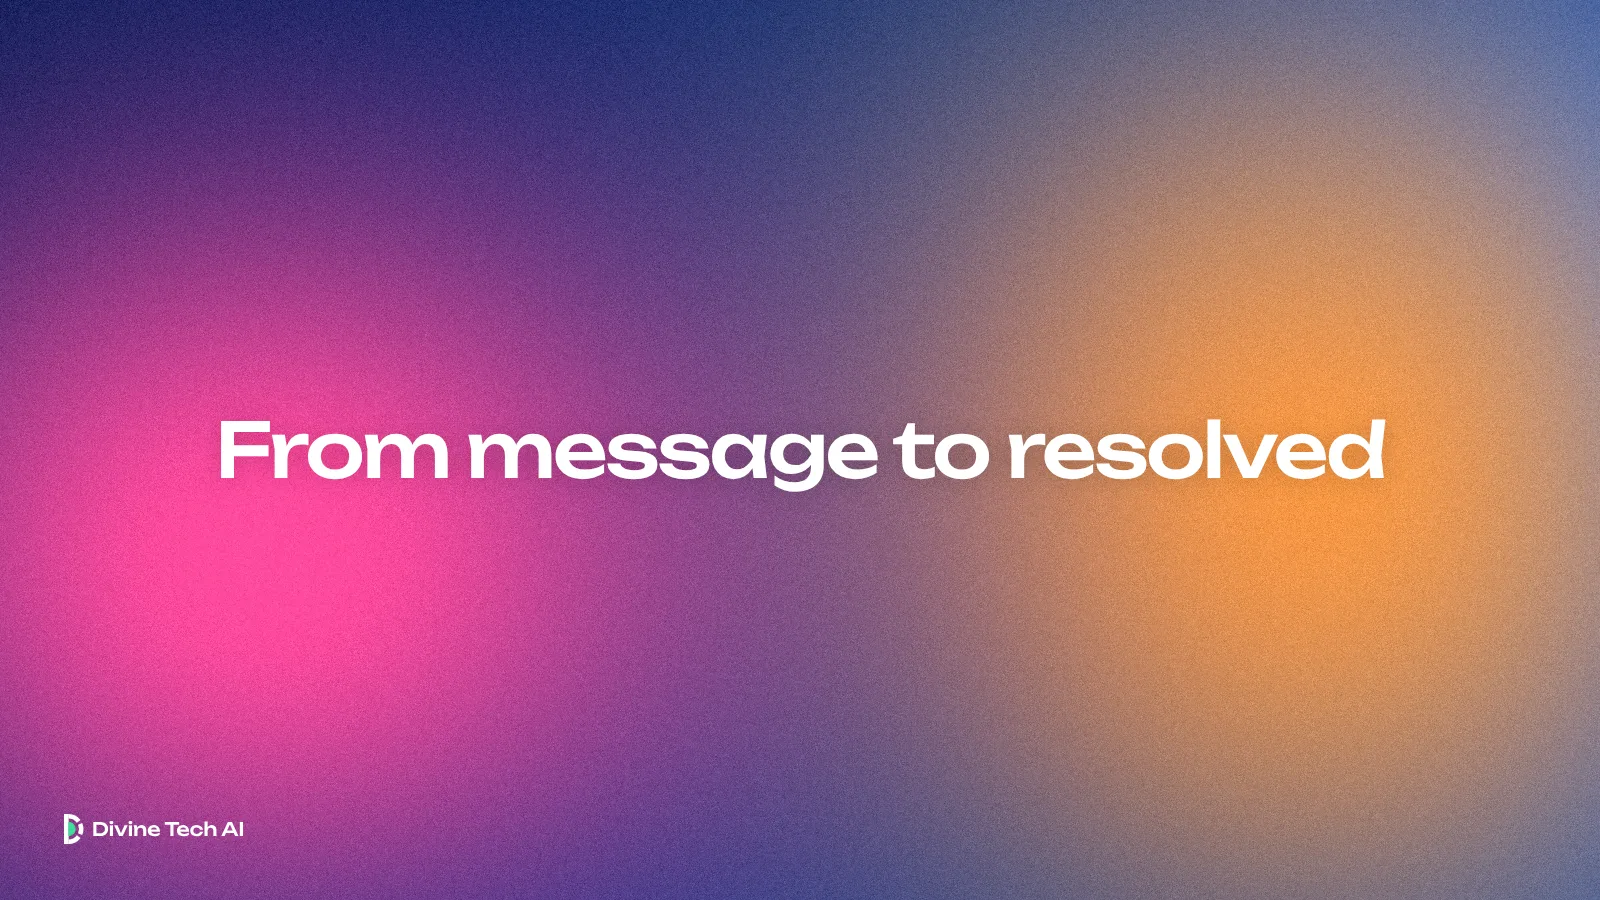
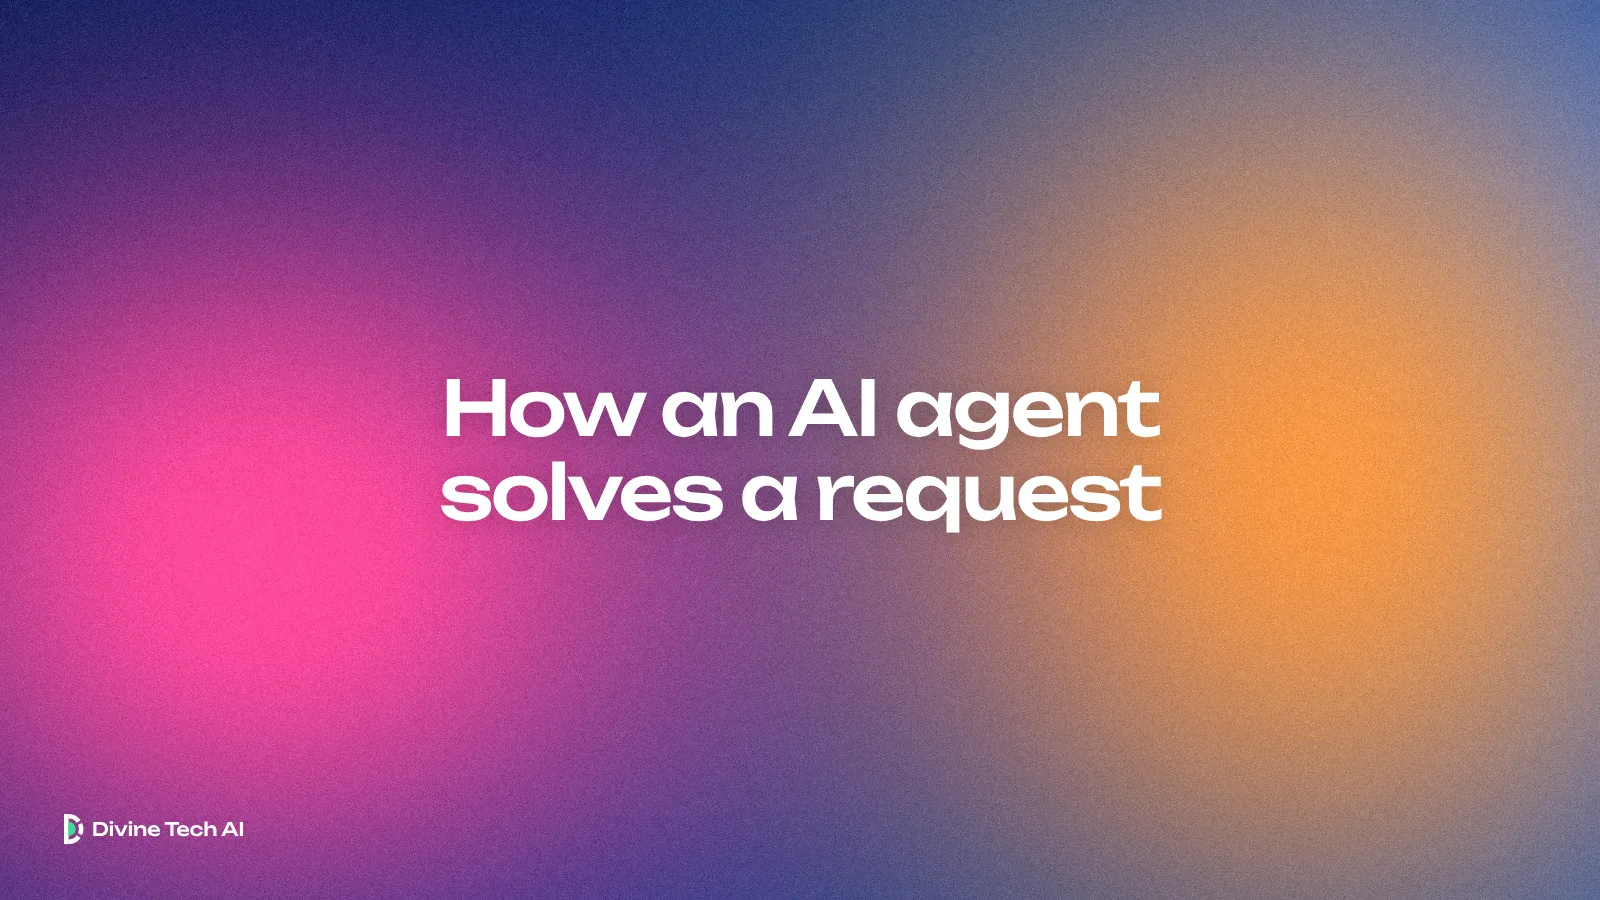
Blog cover: plainer headline, plus a headline rule in the runbook
Cover headline is now "How an AI agent solves a request" (Yuri's note:
"From message to resolved" is not how people talk). AGENT.md now asks for
headlines people would say or search for, without From X to Y slogans.

Claude-Session: https://claude.ai/code/session_019vtFnRPQCbvsoWdgZGPVce

Changed region(s): [[0.125, 0.4044, 0.875, 0.5911]]

diff --git a/src/data/blog.js b/src/data/blog.js
@@ -24,7 +24,7 @@ export const posts = [
     "author": "Divine Tech AI",
     "image": {
       "base": "/img/blog/ai-customer-service-agents",
-      "alt": "Soft deep-blue light with hot pink and orange glows, the Divine Tech AI wordmark and the headline From message to resolved",
+      "alt": "Soft deep-blue light with hot pink and orange glows, the Divine Tech AI wordmark and the headline How an AI agent solves a request",
       "og": "/img/blog/ai-customer-service-agents-og.jpg"
     },
     "bodyHtml": "<p><strong>AI customer service agents work in six stages: they take in the message and identify the customer, work out what the customer wants, load the history and account context, look up the answer in your own policies, act inside your systems under your rules, and hand off to a person when needed.</strong> Every step is written to a record. If any stage is weak, the customer feels it.</p>\n\n<p>Most explanations stop at \"the AI understands the question and answers it.\" The harder parts are what the agent knows about this customer, what it may change, and when it should stop. This guide follows one request from the first message to a closed ticket.</p>\n\n<h2>What changed recently?</h2>\n\n<p>Service teams are starting to judge AI agents on resolution instead of deflection. At a contact center summit covered by SiliconANGLE in October 2026, Five9's CEO cited the company's own research: 99% of practitioners deploying AI believe their contact centers have improved, but only 66% of users agree, and more than half of the users who disagree say they could not reach a human (<a href=\"https://siliconangle.com/2026/10/07/ai-customer-service-in-contact-center-summitcontactcentersummit/\">SiliconANGLE, October 2026</a>).</p>\n\n<p>Volume is also about to change shape. Zendesk CEO Tom Eggemeier told Newsweek that a personal AI agent contacted his cable, streaming, internet and mobile providers 37 times over four days on his behalf (<a href=\"https://www.newsweek.com/zendesk-ceo-ai-agents-could-reshape-customer-service-12580590\">Newsweek, October 2026</a>). Some of the messages your agent answers will soon come from other agents.</p>\n\n<p>Gartner expects agentic AI to resolve 80% of common customer service issues without human intervention by 2029 (<a href=\"https://www.gartner.com/en/newsroom/press-releases/2025-03-05-gartner-predicts-agentic-ai-will-autonomously-resolve-80-percent-of-common-customer-service-issues-without-human-intervention-by-20290\">Gartner, March 2025</a>). The key word there is \"resolve,\" and answering is only part of it.</p>\n\n<h2>What is an AI customer service agent?</h2>\n\n<p><strong>An AI customer service agent is software that reads a customer's request, decides what to do under the company's rules, and completes the task in the company's systems, handing off to a person when the request is outside its limits.</strong> A chatbot answers. An agent also does the work: it moves the booking, issues the refund and updates the CRM.</p>\n\n<h2>How does an AI customer service agent work, step by step?</h2>\n\n<p>The six stages run on every request, on any channel. On a refund they may pause for a person's approval.</p>\n\n<table>\n<thead><tr><th>Stage</th><th>What the agent does</th><th>What it needs</th><th>What goes wrong when it is weak</th></tr></thead>\n<tbody>\n<tr><td>1. Intake</td><td>Receives the message, identifies the channel and the customer</td><td>Caller ID, email address or login, matched to one customer record</td><td>Duplicate records, the agent treats a known customer as a stranger</td></tr>\n<tr><td>2. Intent</td><td>Works out what the customer wants, including several requests in one message</td><td>The list of tasks the agent handles and the ones it does not</td><td>Answers the first question and ignores the second</td></tr>\n<tr><td>3. Context</td><td>Loads history across channels, open tickets, orders and appointments</td><td>One shared memory per customer</td><td>The customer repeats themselves, the agent contradicts yesterday's reply</td></tr>\n<tr><td>4. Knowledge</td><td>Finds the answer in your policies, price book and documents</td><td>One current source of truth, with owners</td><td>Confident answers from outdated or conflicting pages</td></tr>\n<tr><td>5. Action</td><td>Checks the rule, then writes to your systems and confirms the result</td><td>Permissions per action, limits, approvers</td><td>Changes that nobody allowed, or actions that silently fail</td></tr>\n<tr><td>6. Handoff and record</td><td>Brings in a person when needed, logs every step</td><td>Handoff triggers, a full history, an audit log</td><td>Customers stuck in a loop, no way to explain what happened</td></tr>\n</tbody>\n</table>\n\n<h3>A worked example</h3>\n\n<p>Maple Ridge Heating is a fictional HVAC company. A customer texts: \"Can I move my furnace tune-up to Friday? Also, why was I charged a $79 trip fee last time?\"</p>\n\n<ol>\n<li><strong>Intake.</strong> The phone number matches one customer record, so the agent knows who is writing before it replies.</li>\n<li><strong>Intent.</strong> Two requests: reschedule a visit, and explain a charge, which may become a refund request.</li>\n<li><strong>Context.</strong> The record shows the tune-up booked for Tuesday and last month's invoice with the trip fee. The notes show the technician arrived and nobody was home.</li>\n<li><strong>Knowledge.</strong> The fee policy says a trip fee applies when the customer misses a confirmed visit. The agent quotes the policy in plain words.</li>\n<li><strong>Action.</strong> Rescheduling is allowed on its own, so the agent books Friday 10 to 12 and sends a confirmation. The customer disputes the fee. Waiving it is above the agent's limit, so it asks the office manager.</li>\n<li><strong>Handoff and record.</strong> The manager approves the waiver in one tap. The agent tells the customer, notes the credit on the account and logs both actions, along with the rule that applied and who approved.</li>\n</ol>\n\n<p>The agent did not waive the fee because the customer sounded annoyed, and it did not make the customer wait for a person to move a booking.</p>\n\n<h2>How does the agent know what the customer wants?</h2>\n\n<p>Intent detection used to mean training a classifier on a fixed list of intents. Language models read the whole message, which handles messy, multi-part requests far better. The weak spot has moved: the model understands \"move my tune-up\" easily, but it also needs to know that rescheduling is something it may do here and negotiating a fee is not.</p>\n\n<p>Give the agent a written scope of the tasks it handles, the tasks it routes and the topics it declines. Outside that scope, the right reply is short, honest and followed by a handoff.</p>\n\n<h2>Where does the context come from?</h2>\n\n<p>Context is everything the agent should know before it replies: who the customer is, what they asked last week on another channel, what is booked and what is still open. Without it, every conversation starts from zero.</p>\n\n<p>The requirement is one memory per customer, shared across channels, so a request that starts in web chat and continues by phone stays one conversation. That depends less on the AI model than on identity matching and a single record the agent reads and writes.</p>\n\n<h2>How does an AI agent avoid giving wrong answers?</h2>\n\n<p>An AI customer service agent should answer policy and pricing questions from your documents, retrieved at the moment of the question, and not from what the model absorbed in training. This is usually called grounding. It only works if the documents agree with each other.</p>\n\n<p>In <em>Moffatt v. Air Canada</em> (February 2024), Air Canada's chatbot told a customer he could apply for a bereavement fare after traveling, while the airline's own bereavement page said the opposite. Air Canada argued the chatbot was responsible for its own actions. The tribunal called that \"a remarkable submission,\" held that \"it should be obvious to Air Canada that it is responsible for all the information on its website,\" and ordered the airline to pay (<a href=\"https://decisions.civilresolutionbc.ca/crt/crtd/en/525448/1/document.do\">Civil Resolution Tribunal decision, 2024 BCCRT 149</a>).</p>\n\n<p>Three habits prevent most of this:</p>\n\n<ul>\n<li>keep one current version of each policy, with a named owner;</li>\n<li>have the agent quote or link the policy it relied on;</li>\n<li>when sources conflict or say nothing, hand off instead of improvising.</li>\n</ul>\n\n<h2>How does the agent take action in your systems?</h2>\n\n<p>Actions are where most of the value and most of the risk sit. Each action should pass three checks.</p>\n\n<table>\n<thead><tr><th>Check</th><th>Question it answers</th><th>Example</th></tr></thead>\n<tbody>\n<tr><td>Permission</td><td>Is this action allowed at all, and for this customer?</td><td>Rescheduling is allowed; changing the price book is never allowed</td></tr>\n<tr><td>Limit</td><td>Is it within the amount or threshold the business set?</td><td>Refunds up to $50 alone; above that, a manager approves</td></tr>\n<tr><td>Confirmation</td><td>Did the system accept the change, and does the customer know?</td><td>The calendar returned the new slot before the agent says \"booked\"</td></tr>\n</tbody>\n</table>\n\n<p>The third check is the one teams forget. An agent that says \"done\" before the booking system confirms the change creates a new problem. A failed write should lead to a retry or a handoff, never to a cheerful confirmation.</p>\n\n<p>For the first two checks, sort every action into allowed, needs approval or never. Most businesses already have these rules for staff; the agent needs them written down.</p>\n\n<h2>When should a person take over?</h2>\n\n<p>A person should take over when the request needs judgment, crosses a limit, or when the customer asks for one. Gartner's survey of 5,728 customers found that 64% would prefer companies did not use AI for customer service, and named difficulty reaching a person as the top concern (<a href=\"https://www.gartner.com/en/newsroom/press-releases/2024-07-09-gartner-survey-finds-64-percent-of-customers-would-prefer-that-companies-didnt-use-ai-for-customer-service\">Gartner, July 2024</a>). Five9's 2026 research points the same way.</p>\n\n<p>Good handoff triggers are concrete:</p>\n\n<ul>\n<li>the customer asks for a person, in any wording;</li>\n<li>the action is above a limit or in the \"never\" column;</li>\n<li>the agent cannot find the answer in your sources;</li>\n<li>the customer repeats the same request, which suggests the agent missed it;</li>\n<li>the topic is sensitive, such as a complaint, a legal threat or a safety issue.</li>\n</ul>\n\n<p>The handoff should carry the full conversation, what the agent already did and why it stopped, so the person can reply without asking the customer to start over.</p>\n\n<h2>What should the agent record?</h2>\n\n<p>Every request should leave a record a manager can read: who asked, on which channel, what the agent understood, which sources it used, what it changed in which system, the rule that applied, who approved, and whether a person took over. That record settles disputes and shows which policy page keeps causing handoffs.</p>\n\n<p>The same record is how you measure. Track resolution rate (requests closed without reopening), handoff rate with reasons, time to resolution and how long approvals wait. Containment alone, the share of conversations that never reached a person, rewards an agent for keeping customers away from help.</p>\n\n<h2>How to evaluate AI customer service agents before you buy</h2>\n\n<ol>\n<li>Ask to see one request move through all six stages on your own data, including an action that needs approval.</li>\n<li>Check that a customer's history follows them across your channels.</li>\n<li>Ask where answers come from, and what the agent does when two sources disagree.</li>\n<li>See how rules are set: per action, with amounts and named approvers.</li>\n<li>Test a failed action, such as a fully booked slot, and watch what the agent tells the customer.</li>\n<li>Ask for a person mid-conversation and look at what the human receives.</li>\n<li>Open the audit log for the test and check that it explains every step.</li>\n</ol>\n\n<h2>Where an AI operating system fits</h2>\n\n<p>The six stages are easier to run well on one foundation. In an <a href=\"/blog/ai-operating-system-for-business\">AI operating system for business</a>, every request passes through the same layers: understand, decide under your rules, act inside your systems and record it.</p>\n\n<p>That is how we built Aurora. It works across phone, SMS, web chat, email, WhatsApp and Slack with one history per customer. You choose what Aurora does on its own, what needs approval and what it never does. Every action is logged with the rule that applied and who approved it, and your team can take over any conversation with the full history.</p>\n\n<h2>Frequently asked questions</h2>\n\n<h3>Do customers mind talking to an AI agent?</h3>\n<p>Many do when they cannot reach a person. Gartner found that 64% of customers would prefer companies did not use AI for service, with difficulty reaching a human as the top concern. A visible, fast route to a person addresses most of that.</p>\n\n<h3>Is a business responsible for what its AI agent says?</h3>\n<p>At least one tribunal has said so. In Moffatt v. Air Canada (2024), a Canadian tribunal held the airline responsible for its chatbot's wrong refund advice. This is not legal advice, but it is a good reason to ground answers in current policies and log them.</p>\n\n<h3>Can an AI customer service agent handle phone calls?</h3>\n<p>Yes. The same six stages apply on a call, with tighter timing: the agent has to reply about as fast as a person, cope with interruptions and transfer to a person within the same call.</p>\n\n<h2>Next steps</h2>\n\n<p>AI customer service agents are only as good as their weakest stage. Before choosing one, write down your scope, your source of policies and your allowed, needs approval and never rules.</p>\n\n<p>To see how those rules, approvals and the audit log work in Aurora, explore <a href=\"/platform\">the Aurora platform</a> or read <a href=\"/platform#security\">how Aurora keeps you in control</a>. For the next wave of requests, the ones sent by your customers' own AI agents, read <a href=\"/blog/prepare-your-business-for-ai-agents\">how to prepare your business for AI agents</a>. For an industry example, see how this works for <a href=\"/blog/ai-receptionist-for-clinics\">an AI receptionist at a clinic</a>.</p>",

diff --git a/docs/blog/AGENT.md b/docs/blog/AGENT.md
@@ -115,7 +115,10 @@ found text over technical drawings hard to read. The cover script draws the back
 palette, so titles stay editable and nothing is downloaded.
 
 1. Choose a short headline of 2 to 6 words, not the article title. Examples:
-   "The brokerage, on autopilot", "Dispatch, without the dispatcher", "When the caller is an agent".
+   "When the caller is an agent", "How an AI agent solves a request".
+   Write it the way a person would say it or search for it, as a plain sentence or question
+   (for example "How an AI agent solves a request"). Avoid slogan patterns such as
+   "From X to Y" or "X, without the Y" (Yuri's note: people do not talk like that).
 2. Choose a **new palette** of 4 colours, darkest first, clearly different from the covers already
    in `design/blog-covers/covers.json`. A hint of the brand kit is welcome (Divine green `#14A36B` /
    `#3DDC97`, Aurora `#FFC857` / `#FF9F45` / `#F25C2A`) but not required. Keep the middle of the
